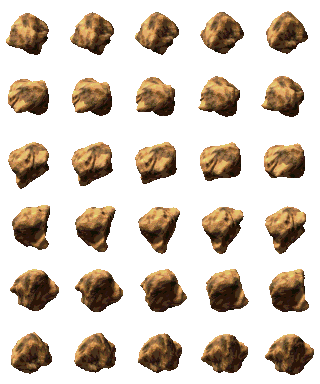
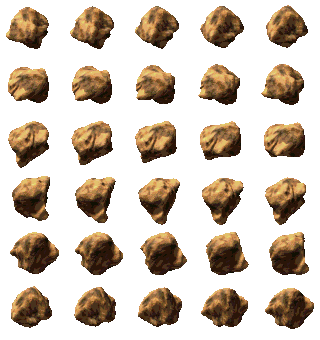
Grid lines visibility can be toggled with key 'G'. Asteroids are rotated randomly at creation.

diff --git a/grid.py b/grid.py
@@ -7,7 +7,9 @@ from scipy.sparse.csgraph import dijkstra
 import cocos
 import cocos.euclid as eu
 from cocos.director import director
-from cocos.actions import MoveTo, InstantAction, Repeat, RotateBy, RotateTo, Delay, CallFunc, CallFuncS, ScaleTo
+from cocos.actions import (
+    MoveTo, InstantAction, Repeat, RotateBy, RotateTo, Delay,
+    CallFunc, CallFuncS, ScaleTo, AccelDeccel)
 
 import pyglet
 from pyglet.window import key
@@ -84,7 +86,7 @@ class GridLayer(cocos.layer.ScrollableLayer):
         for x,y in self.entities['asteroids']:
             rotation_speed = uniform(0.07, 0.15)
             anim = pyglet.image.Animation.from_image_sequence(texture_seq, rotation_speed, True)
-            asteroid = entity.Asteroid(anim, self.from_grid_to_pixel(x,y))
+            asteroid = entity.Asteroid(anim, position = self.from_grid_to_pixel(x,y), rotation = uniform(0, 360))
             self.sprite_batch.add(asteroid)
 
         # We build the lines of the grid.
@@ -104,6 +106,7 @@ class GridLayer(cocos.layer.ScrollableLayer):
                     ('v2f', lines),
                     ('c4B', (255, 0, 0, 100) * (self.col+1)*2))
                     )
+        self.grid_visible = True
         
         # We build the distance matrix.
         self.dist_mat = DistanceMatrix(self.row, self.col)
@@ -366,14 +369,16 @@ class GridLayer(cocos.layer.ScrollableLayer):
     def on_key_release(self, symbol, modifiers):
         # Check for key released in our key bindings
         if symbol == key.F1:
-            self.scroller.do(ScaleTo(0.75, 1))
+            self.scroller.do(AccelDeccel(ScaleTo(0.75, 1)))
             return True
         elif symbol == key.F2:
-            self.scroller.do(ScaleTo(1., 1))
+            self.scroller.do(AccelDeccel(ScaleTo(1., 1)))
             return True
         elif symbol == key.F3:
-            self.scroller.do(ScaleTo(1.25, 1))
+            self.scroller.do(AccelDeccel(ScaleTo(1.25, 1)))
             return True
+        elif symbol == key.G:
+            self.toggle_grid_lines()
         
         binds = self.bindings
         if symbol in binds:
@@ -381,6 +386,18 @@ class GridLayer(cocos.layer.ScrollableLayer):
             return True
         return False
 
+    def toggle_grid_lines(self):
+        if self.grid_visible:
+            color = [255, 0, 0, 0]
+        else:
+            color = [255, 0, 0, 100]
+        
+        self.borders[0].colors = color * (self.row+1)*2
+        self.borders[1].colors = color * (self.col+1)*2
+            
+        self.grid_visible = not self.grid_visible
+            
+    
     def update_focus(self, position):
         "Move the grid to the focus_position."
         self.scroller.set_focus(*position)

diff --git a/entity.py b/entity.py
@@ -91,8 +91,8 @@ class Player(object):
             ship.attack_completed = False
 
 class Asteroid(cocos.sprite.Sprite):
-    def __init__(self, image, pos):
-         super(Asteroid, self).__init__(image, position=pos,)
+    def __init__(self, image, *args, **kwargs):
+         super(Asteroid, self).__init__(image, *args, **kwargs)
          frame_num = len(image.frames)
          self._frame_index = random.randint(0, frame_num-1)
          
